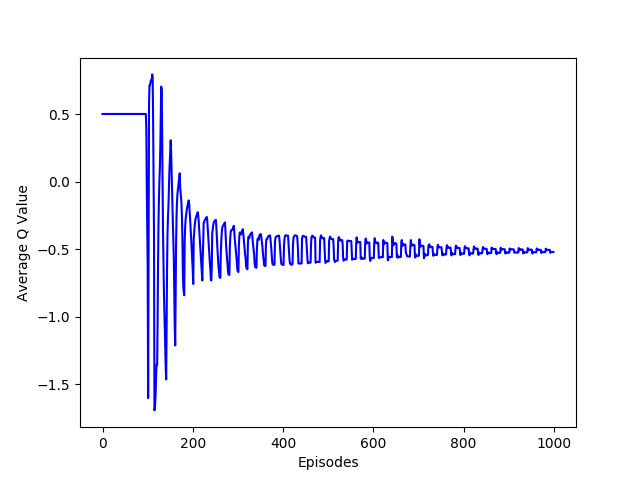
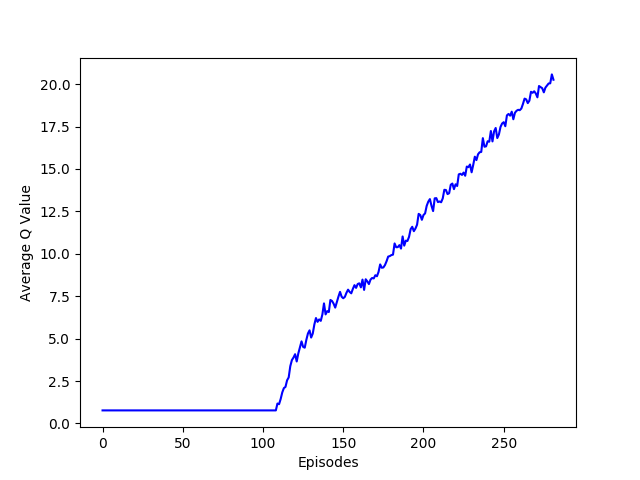
problem solves

diff --git a/Lab2/cartpole/cartpole_dqn.py b/Lab2/cartpole/cartpole_dqn.py
@@ -15,7 +15,7 @@ EPISODES = 1000 #Maximum number of episodes
 class DQNAgent:
     #Constructor for the agent (invoked when DQN is first called in main)
     def __init__(self, state_size, action_size):
-        self.check_solve = False	#If True, stop if you satisfy solution confition
+        self.check_solve = True	#If True, stop if you satisfy solution confition
         self.render = False        #If you want to see Cartpole learning, then change to True
 
         #Get size of state and action
@@ -24,13 +24,13 @@ class DQNAgent:
 
 
         # TODO Set hyper parameters for the DQN. Do not adjust those labeled as Fixed.
-        self.discount_factor = 0.95
+        self.discount_factor = 0.97
         self.learning_rate = 0.005
         self.epsilon = 0.02 #Fixed
         self.batch_size = 32 #Fixed
-        self.memory_size = 1000
-        self.train_start = 1000 #Fixed - original:1000
-        self.target_update_frequency = 10
+        self.memory_size = 10000
+        self.train_start = 1000 #Fixed
+        self.target_update_frequency = 5
         # ================
 
 
@@ -54,7 +54,9 @@ class DQNAgent:
         #Tip: Consult https://keras.io/getting-started/sequential-model-guide/
     def build_model(self):
         model = Sequential()
-        model.add(Dense(16, input_dim=self.state_size, activation='relu',
+        model.add(Dense(24, input_dim=self.state_size, activation='relu',
+                        kernel_initializer='he_uniform'))
+        model.add(Dense(16, activation='linear',
                         kernel_initializer='he_uniform'))
         model.add(Dense(self.action_size, activation='linear',
                         kernel_initializer='he_uniform'))
@@ -114,7 +116,7 @@ class DQNAgent:
 
         for i in range(self.batch_size): #For every batch
 
-            target[i][action[i]] = Y[i]
+            target[i][action[i]] = Y[i] if not done[i] else reward[i]
         # ======== end to do ======
 
         #Train the inner loop network
@@ -175,7 +177,7 @@ if __name__ == "__main__":
         max_q[e][:] = np.max(tmp, axis=1)
         max_q_mean[e] = np.mean(max_q[e][:])
 
-        while not done:
+        while not done: # time step
             if agent.render:
                 env.render() #Show cartpole animation
 
